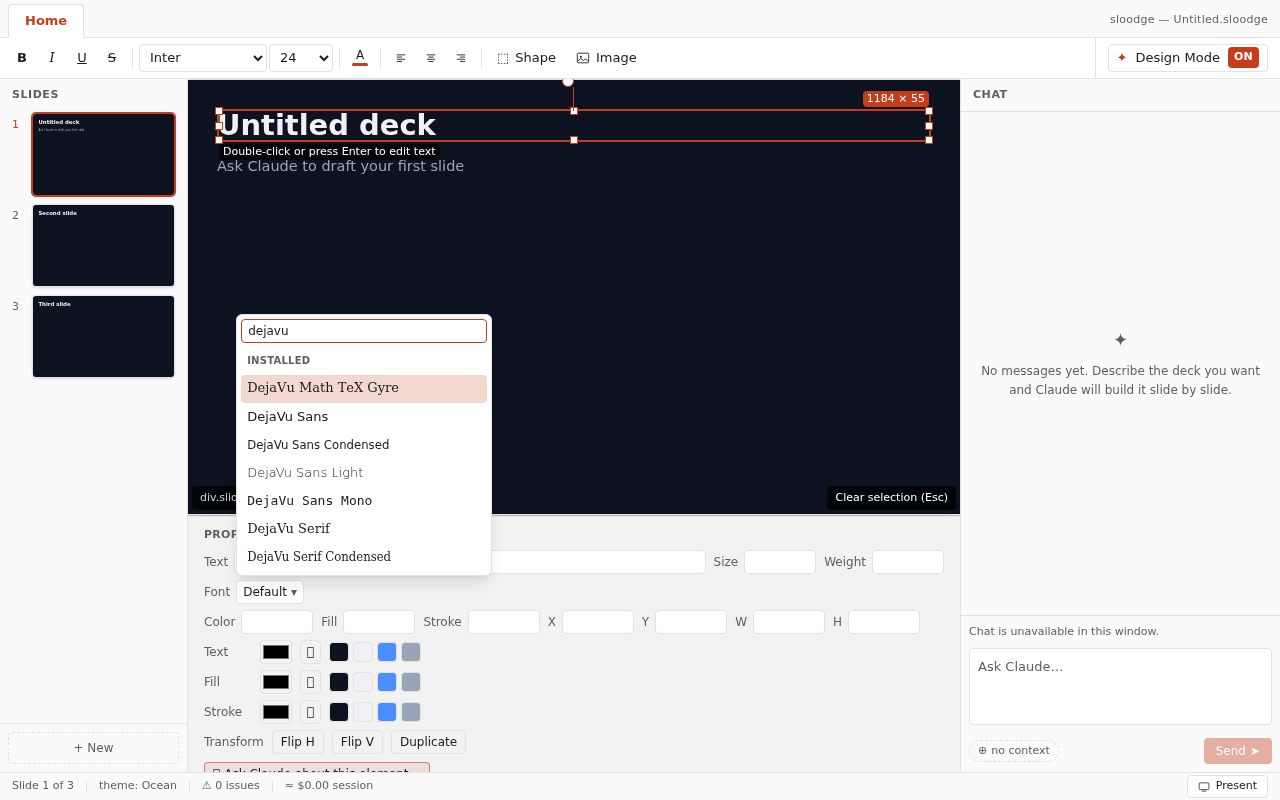
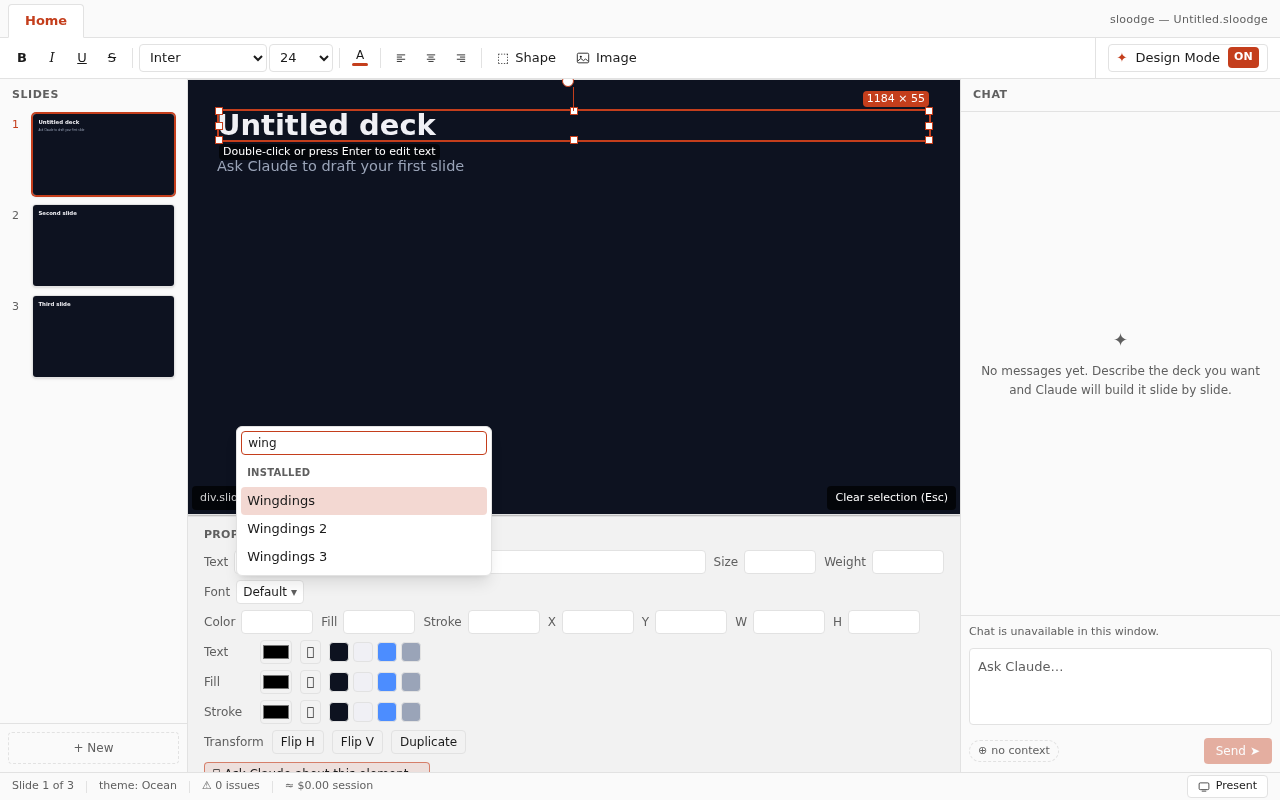
fix: M3.10 round-8 review — refuse a leading generic family, and a doubled space, per word
The same `<family-name>` grammar, one rule over from round 7. `RESERVED_FAMILY_WORDS`
was asked of the whole name, so a family whose *first* word is a `<generic-family>` —
`Serif Gothic`, `Cursive Standard`, `Math Sans` — passed `isValidFontFamilyName` and
composed to a value that is the generic followed by a stray ident. Chromium drops
the declaration whole: measured in Playwright, 8/8 such names `DROP` with
`el.style.fontFamily` empty. The dropdown row then previewed in the inherited face,
the pick wrote dead CSS, and the trigger read it back as applied — the outcome
that constant's own comment says refusal exists to prevent. Zero of the Windows
host's 515 families have the shape, which is the only reason it was a major.

The generics are now `GENERIC_FAMILY_WORDS`, refused as the whole name and as the
first word of a longer one; only the first word matters, so `Gothic Serif`,
`Noto Serif JP`, `Microsoft Sans Serif`, `Sans Serif Collection`, `Cambria Math`
and `Segoe UI Emoji` — all real host names — stay. The whole css-fonts-4 set is
refused rather than Chromium's seven, because the HTML export renders wherever it
is opened and the extra six cost nothing on either host.

The review asked for a granularity audit of every rule in this module, and it
found one more at the wrong scope: the allow-list checked characters but never
word structure. `Foo  Bar` composed to an ident sequence Chromium resolves as the
[…]

Changed region(s): [[0.1875, 0.375, 0.4062, 0.7188]]

diff --git a/src/shared/fonts/family.ts b/src/shared/fonts/family.ts
@@ -83,11 +83,20 @@ export const MAX_FONT_FAMILY_NAME_LENGTH = 128
 export const MAX_SYSTEM_FONT_FAMILIES = 2000
 
 /**
- * The character allow-list. A name must *start* with a letter or digit — so it can never open with
- * `@` (an at-rule sigil), `-` (a custom-property sigil) or whitespace — and may then use letters,
- * combining marks (Vietnamese, Devanagari), digits, space, `.`, `_` and `-`.
+ * The character allow-list, and the word structure. A name must *start* with a letter or digit — so
+ * it can never open with `@` (an at-rule sigil), `-` (a custom-property sigil) or whitespace — and
+ * may then use letters, combining marks (Vietnamese, Devanagari), digits, `.`, `_` and `-`, in words
+ * separated by exactly one space.
+ *
+ * One space, because that is the only separator an identifier sequence has: `<custom-ident>+` is
+ * joined by single spaces when it is matched against installed families, so `Foo  Bar` written as
+ * an identifier sequence resolves to the family `Foo Bar` — measured in Chromium, where the CSSOM
+ * serialises it back as `"Foo Bar"` — while the panel would read the source and show the two-space
+ * name as applied. A face whose name carries a doubled space cannot be addressed by anything this
+ * module writes, so it is refused rather than silently collapsed (round-8 review).
  */
-const FONT_FAMILY_NAME_PATTERN = /^[\p{L}\p{Nd}][\p{L}\p{M}\p{Nd} ._-]*$/u
+const FONT_FAMILY_NAME_PATTERN =
+  /^[\p{L}\p{Nd}][\p{L}\p{M}\p{Nd}._-]*(?: [\p{L}\p{M}\p{Nd}._-]+)*$/u
 
 /** SL-G05's viewport-unit test, applied to a name so a face called `Display 3vh` cannot trip it. */
 const VIEWPORT_UNIT_PATTERN = /\b\d*\.?\d+(?:vh|vw|vmin|vmax|vi|vb|dvh|dvw|svh|svw|lvh|lvw)\b/i
@@ -131,6 +140,12 @@ export function isValidFontFamilyName(value: unknown): value is string {
   if (value.length === 0 || value.length > MAX_FONT_FAMILY_NAME_LENGTH) return false
   if (!FONT_FAMILY_NAME_PATTERN.test(value)) return false
   if (RESERVED_FAMILY_WORDS.has(value.toLowerCase())) return false
+  // The first word decides the grammar of the whole value: `Serif Gothic` parses as the
+  // `<generic-family>` `serif` followed by a stray ident, and the declaration is dropped whole — the
+  // same silent miss as an unescaped inner word, one grammar rule over (round-8 review). Single-word
+  // names are covered by the line above and, for `system-ui`, by `composeFontFamilyValue`.
+  const space = value.indexOf(' ')
+  if (space !== -1 && GENERIC_FAMILY_WORDS.has(value.slice(0, space).toLowerCase())) return false
   return isContractSafeFontFamilyName(value)
 }
 
@@ -236,6 +251,19 @@ export function isSystemGroupFamily(name: string): boolean {
  * the separator between the identifiers of one family name, and escaping them would turn readable
  * source into `Segoe\ UI` for no gain.
  *
+ * ## The whole `<family-name>` rule, in one place
+ *
+ * Three rounds of review each found one clause of this grammar missing, so here is all of it.
+ * `<family-name>` is `<string> | <custom-ident>+`, and this module writes the ident form, so:
+ *
+ *   1. every code point of every word is an identifier code point or an escape — this function;
+ *   2. every word *starts* like an identifier: not with a digit, not with a lone or numeric `-` —
+ *      this function, per word, not per name (round 7);
+ *   3. the first word is not a `<generic-family>`, since escaping resolves back into the same
+ *      ident — `isValidFontFamilyName` refuses it (round 8);
+ *   4. words are separated by exactly one space, since that is all an ident sequence can express —
+ *      `FONT_FAMILY_NAME_PATTERN` refuses anything else (round 8).
+ *
  * @internal Exported as a test seam. Callers ask `buildFontFamilyValue`.
  */
 export function cssIdentFontFamily(name: string): string {
@@ -318,6 +346,33 @@ const HEX_DIGIT = /[0-9a-fA-F]/
 const NEEDS_HEX_ESCAPE = /[\p{Cc}\p{Cf}\p{Cs}\p{Zl}\p{Zp}\p{Zs}\s]/u
 
 /**
+ * The `<generic-family>` keywords of css-fonts-4. Refused as a whole name (below) and as the *first*
+ * word of a longer one: `<font-family>` is `[ <family-name> | <generic-family> ]#`, and a value
+ * whose first ident is a generic is that generic — whatever follows is a parse error, and the
+ * declaration is dropped. Measured in Chromium over a 29,578-name word-level corpus: 7,392 values
+ * dropped, every one of them with a first word in `serif`, `sans-serif`, `monospace`, `cursive`,
+ * `fantasy`, `math` or `system-ui`, and no other shape. Chromium currently lets the other six
+ * through, but they are generics in every engine the HTML export may be opened in, and no family on
+ * either dev host starts with any of the thirteen — so the whole spec set is refused, at no cost.
+ * Only the first word matters: `Gothic Serif` and `Noto Serif JP` parse correctly and stay.
+ */
+const GENERIC_FAMILY_WORDS: ReadonlySet<string> = new Set([
+  'serif',
+  'sans-serif',
+  'monospace',
+  'cursive',
+  'fantasy',
+  'math',
+  'emoji',
+  'fangsong',
+  'system-ui',
+  'ui-serif',
+  'ui-sans-serif',
+  'ui-monospace',
+  'ui-rounded',
+])
+
+/**
  * Names CSS reads as something other than a family. A face carrying one is **refused** — kept out of
  * the dropdown and never written — rather than escaped.
  *
@@ -332,18 +387,7 @@ const NEEDS_HEX_ESCAPE = /[\p{Cc}\p{Cf}\p{Cs}\p{Zl}\p{Zp}\p{Zs}\s]/u
  * text renders in a different font. `system-ui` is absent on purpose — there we *want* the keyword.
  */
 const RESERVED_FAMILY_WORDS: ReadonlySet<string> = new Set([
-  'serif',
-  'sans-serif',
-  'monospace',
-  'cursive',
-  'fantasy',
-  'math',
-  'emoji',
-  'fangsong',
-  'ui-serif',
-  'ui-sans-serif',
-  'ui-monospace',
-  'ui-rounded',
+  ...[...GENERIC_FAMILY_WORDS].filter((word) => word !== 'system-ui'),
   'inherit',
   'initial',
   'unset',

diff --git a/tests/unit/fonts/family.test.ts b/tests/unit/fonts/family.test.ts
@@ -127,6 +127,23 @@ const DIGIT_LED_WORD_NAMES = [
   '000 Orange Fizz 2.0 TB',
 ]
 
+/** css-fonts-4's `<generic-family>` keywords; a composed value may not begin with one. */
+const GENERIC_FAMILY_KEYWORDS: ReadonlySet<string> = new Set([
+  'serif',
+  'sans-serif',
+  'monospace',
+  'cursive',
+  'fantasy',
+  'math',
+  'emoji',
+  'fangsong',
+  'system-ui',
+  'ui-serif',
+  'ui-sans-serif',
+  'ui-monospace',
+  'ui-rounded',
+])
+
 /**
  * What Chromium enforces per word, stated as a regex because happy-dom cannot parse CSS: after
  * hex escapes are folded to a marker (their terminating space is not a word separator), every
@@ -395,7 +412,9 @@ describe('cssIdentFontFamily', () => {
       expect(isValidFontFamilyName(name), name).toBe(true)
       const value = buildFontFamilyValue(name)
       expect(value, name).not.toBeNull()
-      expect(everyWordIsAnIdentifier(value!.split(',')[0]!), value!).toBe(true)
+      const family = value!.split(',')[0]!
+      expect(everyWordIsAnIdentifier(family), value!).toBe(true)
+      expect(GENERIC_FAMILY_KEYWORDS.has(family.split(' ')[0]!.toLowerCase()), value!).toBe(false)
     }
     // …and the predicate can say no: this is the exact string the composer used to write.
     expect(everyWordIsAnIdentifier('Wingdings 2')).toBe(false)
@@ -528,12 +547,59 @@ describe('buildFontFamilyValue', () => {
     ])
   })
 
-  it('keeps a name that merely contains a keyword, and the system-ui keyword itself', () => {
-    expect(buildFontFamilyValue('Serif Pro')).toBe('Serif Pro, Segoe UI, system-ui, sans-serif')
-    expect(buildFontFamilyValue('Default Gothic')).toBe(
-      'Default Gothic, Segoe UI, system-ui, sans-serif',
-    )
+  it('refuses a name whose FIRST word is a generic family, which makes the whole value that generic', () => {
+    // `Serif Gothic, Segoe UI, …` is the generic `serif` followed by a stray ident: Chromium drops
+    // the declaration whole, the row previews in the inherited face and the trigger reads the source
+    // back as applied. Until round 8 this file asserted the opposite for `Serif Pro`.
+    for (const name of [
+      'Serif Pro',
+      'Serif Gothic',
+      'serif 2',
+      'SANS-SERIF Gothic',
+      'Monospace Two',
+      'Cursive Standard',
+      'Fantasy Land',
+      'Math Sans',
+      'system-ui Gothic',
+      'Emoji One',
+      'Fangsong Song',
+      'ui-serif Pro',
+      'ui-rounded Display',
+    ]) {
+      expect(isValidFontFamilyName(name), name).toBe(false)
+      expect(buildFontFamilyValue(name), name).toBeNull()
+    }
+    expect(normalizeFontFamilies(['Serif Gothic', 'Gothic Serif'])).toEqual(['Gothic Serif'])
+  })
+
+  it('keeps a name that merely contains a keyword later, and the system-ui keyword itself', () => {
+    // Real families from the Windows host, plus the CSS-wide keyword case, which only matters when
+    // it is the whole value: Chromium accepts `default Gothic` and parses it as a family.
+    for (const name of [
+      'Gothic Serif',
+      'Noto Serif JP',
+      'Microsoft Sans Serif',
+      'MS Reference Sans Serif',
+      'Sans Serif Collection',
+      'Cambria Math',
+      'Segoe UI Emoji',
+      'Default Gothic',
+    ]) {
+      expect(isValidFontFamilyName(name), name).toBe(true)
+      expect(buildFontFamilyValue(name), name).toBe(`${name}, Segoe UI, system-ui, sans-serif`)
+    }
     expect(isValidFontFamilyName('system-ui')).toBe(true)
+  })
+
+  it('refuses a name with two consecutive spaces, which no identifier sequence can address', () => {
+    // `Foo  Bar` as idents resolves to the family `Foo Bar` (Chromium serialises it back that way),
+    // so writing it would make the panel show one name while the renderer looked up another.
+    expect(isValidFontFamilyName('Foo  Bar')).toBe(false)
+    expect(isValidFontFamilyName('A  2')).toBe(false)
+    expect(buildFontFamilyValue('Foo  Bar')).toBeNull()
+    expect(normalizeFontFamilies(['Foo  Bar', 'Foo Bar'])).toEqual(['Foo Bar'])
+    // Trimming still happens before the check, so padded enumerator output is not refused for it.
+    expect(normalizeFontFamilies(['  Foo Bar  '])).toEqual(['Foo Bar'])
   })
 
   it('leaves the system-ui keyword unquoted', () => {
